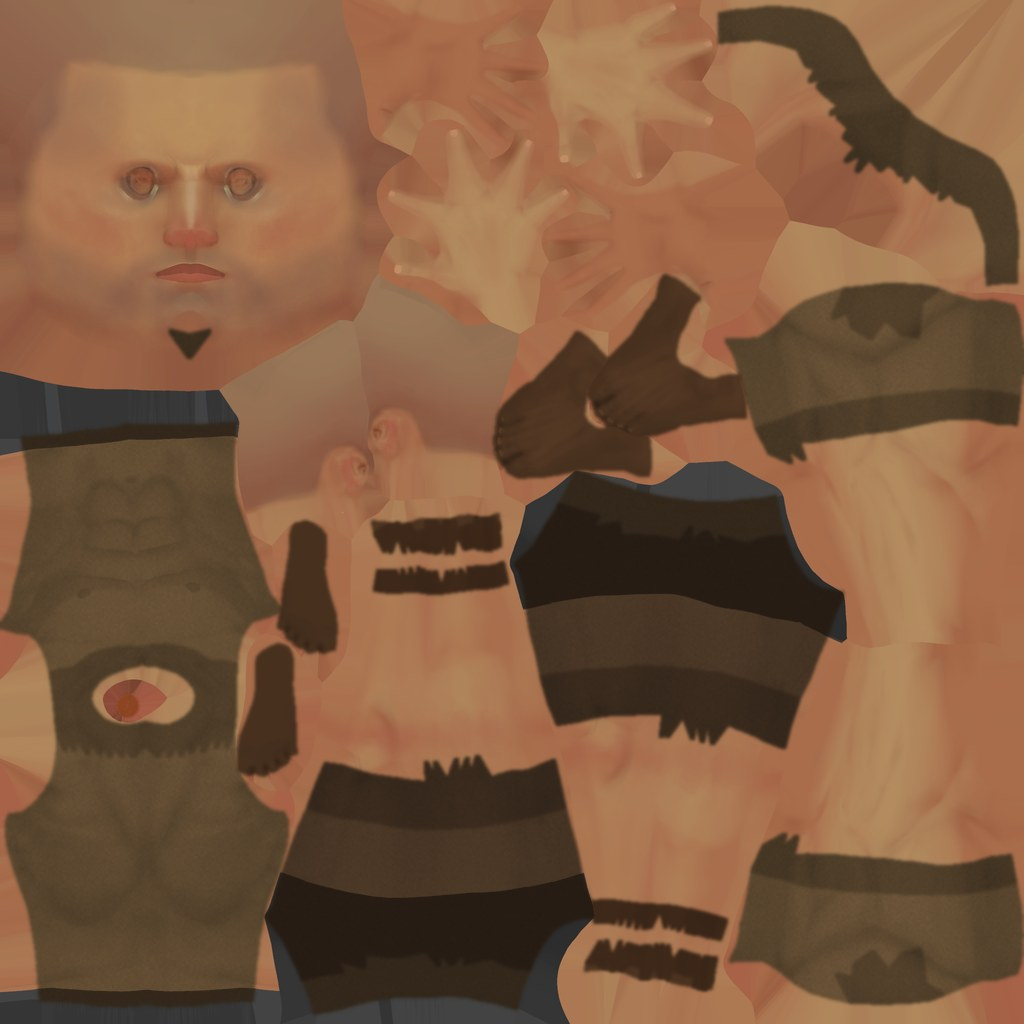
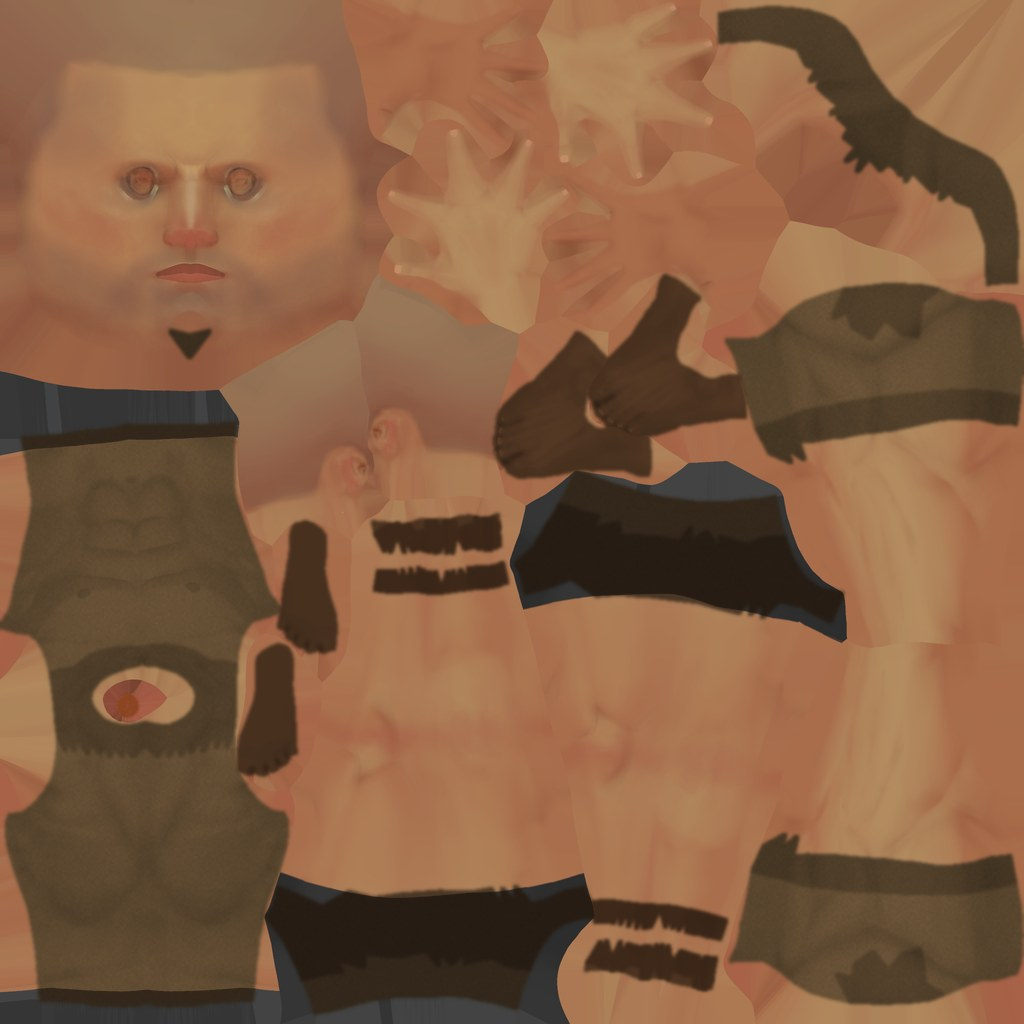
Continuous castro wall, Viriato falls when he dies, bare thighs under skirts
Claude-Session: https://claude.ai/code/session_01ELAARJfiSJ5tJReoBhHHsc

Changed region(s): [[0.2812, 0.5625, 0.8125, 0.875]]

diff --git a/src/game.js b/src/game.js
@@ -220,15 +220,23 @@ function mesh(geo, mat, x, y, z, parent) { const m = new THREE.Mesh(geo, mat); m
     mesh(new THREE.ConeGeometry(3.1, 2.6, 14), thatch, x, y + 3.4, z);
     addCol(x, z, 2.6);
   }
-  // low ring wall
-  const wall = [];
-  for (let a = 0; a < TAU; a += .11) {
-    if (Math.abs(wrapA(a - Math.PI * 1.25)) < .25) continue; // gate toward the road (west-north-west)
-    const x = CASTRO.x + Math.cos(a) * 15, z = CASTRO.z + Math.sin(a) * 15;
-    wall.push({ x, y: heightAt(x, z) + .5, z, sx: 1.8, sy: 1.1, sz: 1, ry: -a });
-    addCol(x, z, .9);
+  // one continuous dry-stone ring wall following the ground, open at the gate toward the road
+  {
+    const R = 15, TH = 1.1, HT = 1.6, GATE = Math.PI * 1.25, GAP = .22, N = 160;
+    const a0 = GATE + GAP, a1 = GATE + TAU - GAP, P3 = [], UV = [], IDX = [];
+    const quad = (p, q, r, t, u0, u1, v0, v1) => { const i = P3.length / 3; P3.push(...p, ...q, ...r, ...t); UV.push(u0, v0, u1, v0, u1, v1, u0, v1); IDX.push(i, i + 1, i + 2, i, i + 2, i + 3); };
+    const pt = (a, r, top) => { const x = CASTRO.x + Math.cos(a) * r, z = CASTRO.z + Math.sin(a) * r, y = heightAt(x, z); return [x, top ? y + HT - (r > R ? .08 : 0) : y - .4, z]; };
+    for (let i = 0; i < N; i++) {
+      const aa = a0 + (a1 - a0) * i / N, ab = a0 + (a1 - a0) * (i + 1) / N, u0 = aa * R / 2.2, u1 = ab * R / 2.2, ro = R + TH / 2, ri = R - TH / 2, v = HT / 2.2;
+      quad(pt(aa, ro, 0), pt(ab, ro, 0), pt(ab, ro, 1), pt(aa, ro, 1), u0, u1, 0, v);   // outer face
+      quad(pt(ab, ri, 0), pt(aa, ri, 0), pt(aa, ri, 1), pt(ab, ri, 1), u1, u0, 0, v);   // inner face
+      quad(pt(aa, ro, 1), pt(ab, ro, 1), pt(ab, ri, 1), pt(aa, ri, 1), u0, u1, 0, TH / 2.2); // walk on top
+      if (i % 3 === 0) addCol(CASTRO.x + Math.cos(aa) * R, CASTRO.z + Math.sin(aa) * R, .9);
+    }
+    for (const [aE, s] of [[a0, 1], [a1, -1]]) { const o0 = pt(aE, R + TH / 2, 0), i0 = pt(aE, R - TH / 2, 0), i1 = pt(aE, R - TH / 2, 1), o1 = pt(aE, R + TH / 2, 1); if (s > 0) quad(i0, o0, o1, i1, 0, TH / 2.2, 0, HT / 2.2); else quad(o0, i0, i1, o1, 0, TH / 2.2, 0, HT / 2.2); }
+    const g = new THREE.BufferGeometry(); g.setAttribute('position', new THREE.Float32BufferAttribute(P3, 3)); g.setAttribute('uv', new THREE.Float32BufferAttribute(UV, 2)); g.setIndex(IDX); g.computeVertexNormals();
+    const w = new THREE.Mesh(g, stone); w.castShadow = w.receiveShadow = true; w.name = 'castro-wall'; scene.add(w);
   }
-  instanced(new THREE.BoxGeometry(1, 1, 1), stone, wall);
 }
 
 // Roman camp
@@ -1806,7 +1814,7 @@ function endScreen(kicker, title, text) {
   $('hud').classList.add('hidden'); $('end').classList.remove('hidden');
 }
 let endT = 0, endArgs = null;
-function die() { state = 'dead'; SFX.die(); endT = 1.4; endArgs = ['CAÍDO EM COMBATE', 'Viriato tombou', 'Roma não vencerá à primeira. Volta aos montes e tenta de novo.']; }
+function die() { avatar.deadT = 0; avatar.f = P.f; C.endBlock(P.f); state = 'dead'; SFX.die(); endT = 2.8; endArgs = ['CAÍDO EM COMBATE', 'Viriato tombou', 'Roma não vencerá à primeira. Volta aos montes e tenta de novo.']; }
 function win() { state = 'won'; SFX.horn(); endT = 1.8; endArgs = ['VITÓRIA', 'Os montes são lusitanos', 'A patrulha caiu, os mantimentos arderam e o centurião jaz no seu próprio acampamento. Esta noite, nos castros, contar-se-á o teu nome.']; }
 
 $('start').addEventListener('click', () => startGame(!navigator.webdriver));
@@ -1829,7 +1837,14 @@ function step(dt) {
   else if (state === 'dead' || state === 'won') {
     if (endT > 0) { endT -= dt; if (endT <= 0 && endArgs) { endScreen(...endArgs); endArgs = null; } }
     updateEnemies(dt); updateAllies(dt); updateProjectiles(dt);
-    if (state === 'dead') { P.crouch = Math.min(1.9, P.crouch + dt * 2); camera.position.y = Math.max(P.pos.y + .3, camera.position.y - dt * 2); camera.rotation.z = Math.min(.6, camera.rotation.z + dt); }
+    if (state === 'dead') {
+      avatar.dead = true; avatar.deadT = (avatar.deadT || 0) + dt; avatar.mv.x = avatar.mv.z = 0;
+      setPose(avatar, dt); AV.root.position.set(P.pos.x, P.pos.y, P.pos.z); AV.root.rotation.y = avatar.yaw; AV.root.visible = true; VM.visible = false;
+      // the camera rises and draws back to look down on the fallen man, whatever the view
+      const k = smooth(0, 2.2, avatar.deadT), back = V(Math.sin(P.yaw), 0, Math.cos(P.yaw));
+      const cp = V(P.pos.x, P.pos.y, P.pos.z).addScaledVector(back, 2.4 + k * 1.6).add(V(0, 1.6 + k * 2.4, 0));
+      camera.position.lerp(cp, Math.min(1, dt * 3)); camera.lookAt(P.pos.x, P.pos.y + .3, P.pos.z);
+    }
   } else if (state === 'menu') {
     menuT += dt * .04;
     const cx = CAMP.x + 20, cz = 40;

diff --git a/tools/paint-outfits.py b/tools/paint-outfits.py
@@ -19,11 +19,11 @@ for tri in I:
     c = P[tri].mean(0); x, y = abs(c[0]), c[1]
     k = None
     if x < .26 and .98 <= y <= 1.58: k = 'upper'          # chest, back, and the shoulder tops round the neck opening
-    elif x < .26 and .6 <= y < .98: k = 'lower'           # belly, hips, skirt to mid-thigh
+    elif x < .26 and .86 <= y < .98: k = 'lower'          # belly and loincloth only: every kind wears a skirt over bare thighs
     elif .2 <= x < .4 and y > 1.28: k = 'sleeve'          # short sleeves
     elif y < .095 and x < .3: k = 'shoe'                  # closed leather shoe
     elif (.095 <= y < .125 or .19 <= y < .215) and x < .3: k = 'strap'  # ankle cuff and a thong tied above it
-    trim = (k == 'lower' and y < .7) or (k == 'sleeve' and x > .34) or (k == 'upper' and y > 1.5)   # hem, cuffs, neckline
+    trim = (k == 'sleeve' and x > .34) or (k == 'upper' and y > 1.5)   # hem, cuffs, neckline
     if not k: continue
     uv = UV[tri]
     if np.ptp(uv[:, 0]) > .3 or np.ptp(uv[:, 1]) > .3: continue  # seam-spanning triangle
